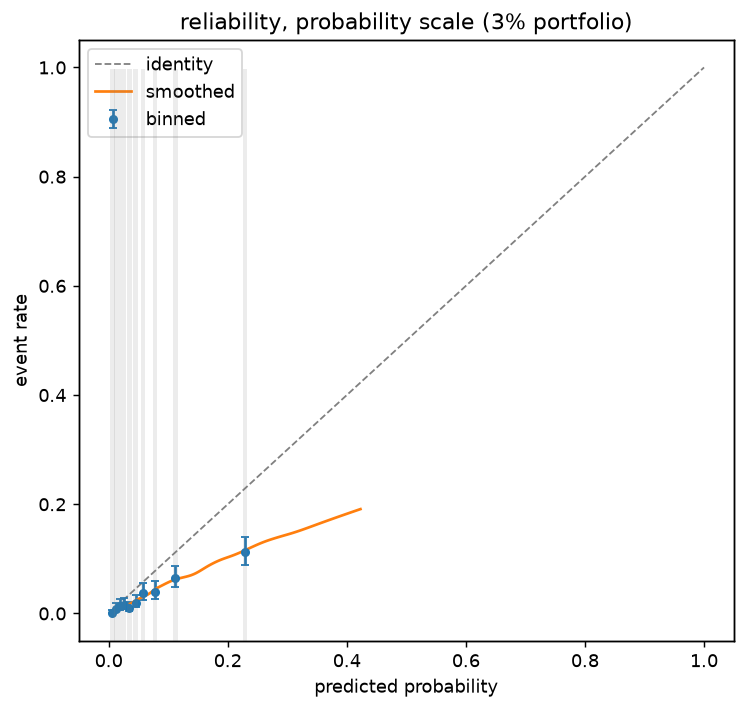
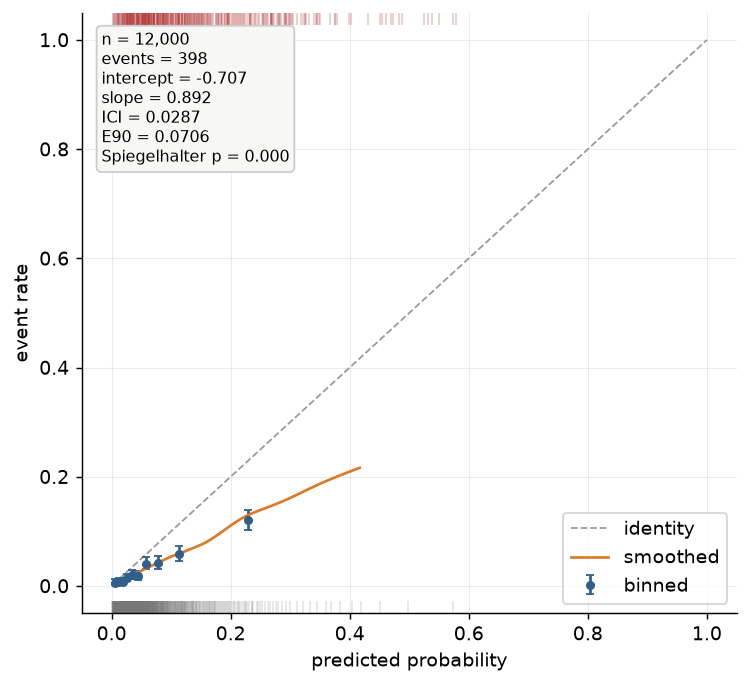
docs: figure-generation script, regenerated gallery under the house style, viz chapter sections (DECISIONS 55)

diff --git a/docs/scripts/generate_figures.py b/docs/scripts/generate_figures.py
@@ -1,0 +1,104 @@
+"""Regenerate every figure referenced by docs/concepts/visualization.md.
+
+Deterministic (seeded portfolio, no RNG in plotting) and idempotent:
+
+    uv run python docs/scripts/generate_figures.py
+
+Requires the [viz] extra. Output: docs/concepts/img/*.png at dpi 130.
+"""
+
+from pathlib import Path
+
+import matplotlib
+
+matplotlib.use("Agg")
+
+import matplotlib.pyplot as plt  # noqa: E402
+import numpy as np  # noqa: E402
+
+from probcal import (  # noqa: E402
+    BetaCalibrator,
+    CalibratorSelector,
+    LogitOffset,
+    calibration_belt,
+    make_pd_portfolio,
+    reliability_binned,
+    reliability_loess,
+)
+from probcal.curves import ecce_curve  # noqa: E402
+from probcal.metrics import jeffreys_grade_test  # noqa: E402
+from probcal.plots import (  # noqa: E402
+    plot_belt,
+    plot_comparison,
+    plot_ecce,
+    plot_grade_backtest,
+    plot_interval,
+    plot_offset_audit,
+    plot_reliability,
+    plot_selection,
+)
+from probcal.vennabers import VennAbersCalibrator  # noqa: E402
+
+OUT = Path(__file__).resolve().parents[1] / "concepts" / "img"
+SAVE = {"dpi": 130, "bbox_inches": "tight"}
+
+
+def save(artist, name: str) -> None:
+    fig = artist if hasattr(artist, "savefig") else artist.figure
+    fig.savefig(OUT / name, **SAVE)
+    plt.close(fig)
+    print(f"wrote {OUT / name}")
+
+
+def main() -> None:
+    OUT.mkdir(parents=True, exist_ok=True)
+    port = make_pd_portfolio(n=12000, random_state=42)
+    y, scores = port.y, port.scores
+    p_cal = BetaCalibrator().fit(scores, y).predict_proba(scores)
+
+    curve = reliability_binned(y, scores)
+    smooth = reliability_loess(y, scores)
+    save(plot_reliability(curve, smooth=smooth, y=y, p=scores), "reliability_probability.png")
+    save(
+        plot_reliability(curve, smooth=smooth, scale="logit", y=y, p=scores),
+        "reliability_logit.png",
+    )
+
+    save(plot_belt(calibration_belt(y, scores)), "belt.png")
+
+    save(
+        plot_comparison(
+            reliability_binned(y, scores),
+            reliability_binned(y, p_cal),
+            scale="logit",
+            labels=("raw scores", "beta-calibrated"),
+        ),
+        "comparison.png",
+    )
+
+    ivap = VennAbersCalibrator().fit(scores[:2000], y[:2000])
+    grid = np.linspace(0.005, 0.5, 120)
+    save(plot_interval(ivap.predict_interval(grid), grid), "interval.png")
+
+    sel = CalibratorSelector(cv=4, random_state=42).fit(scores[:3000], y[:3000])
+    save(plot_selection(sel.report_), "selection.png")
+
+    save(
+        plot_ecce(
+            [ecce_curve(y, scores), ecce_curve(y, p_cal)],
+            labels=["raw scores", "beta-calibrated"],
+        ),
+        "ecce.png",
+    )
+
+    grade_edges = [0.005, 0.01, 0.02, 0.05]
+    grade_names = np.array(["G1", "G2", "G3", "G4", "G5"])
+    grades = grade_names[np.searchsorted(grade_edges, p_cal)]
+    save(plot_grade_backtest(jeffreys_grade_test(y, p_cal, grades)), "grade_backtest.png")
+
+    offset = LogitOffset(target_mean=float(y.mean())).fit(scores)
+    save(plot_offset_audit(offset), "offset_audit.png")
+
+
+if __name__ == "__main__":
+    main()

diff --git a/docs/concepts/visualization.md b/docs/concepts/visualization.md
@@ -13,8 +13,9 @@ calibrated model traces the diagonal. probcal builds it three ways, because the
 construction *is* the estimator and inherits its trade-offs. `reliability_binned` groups
 predictions (equal-mass by default), plotting each bin's mean prediction against its event
 rate with a **Wilson confidence interval** — the binomial interval that behaves sensibly at
-the small counts and extreme rates a PD portfolio produces — and the bin counts as a
-histogram margin, so sparse regions announce themselves. `reliability_loess` and
+the small counts and extreme rates a PD portfolio produces. Data density is shown by the
+per-class rug along the axis edges (a count-bar margin remains available via
+`counts=True`), so sparse regions announce themselves. `reliability_loess` and
 `reliability_spline` draw the smooth versions in the tradition of Austin and Steyerberg
 (2014), trading the binning artifacts for a bandwidth choice; plotted together with the
 binned points they distinguish real curvature from bin noise. Every curve object carries
@@ -31,7 +32,9 @@ its left margin.
 
 The same data on the logit scale, where the miscalibration becomes readable:
 
-![Reliability diagram on the logit scale: binned points with Wilson intervals sit below the identity, and the tail distortion is visible](img/reliability_logit.png) Plotting on the logit scale stretches exactly where the decisions are —
+![Annotated reliability diagram on the logit scale: binned points with Wilson intervals sit below the identity, the stats box reports intercept, slope, ICI, E90 and the Spiegelhalter p-value, and the event/non-event rug shows where the data live](img/reliability_logit.png)
+
+Plotting on the logit scale stretches exactly where the decisions are —
 the difference between 0.5% and 1% PD is a factor of two in price and a full grade on a
 masterscale, and it is invisible on \( [0,1] \) but a fixed distance in log-odds.
 `plot_reliability(scale="logit")` is therefore the package's default recommendation for
@@ -40,6 +43,22 @@ keeps probability intuition while the geometry keeps resolution. Parametric cali
 straight lines on this scale (slope and intercept readable by eye), the
 [offset](offset.md) is a vertical translation, and tail miscalibration — the kind that
 costs money at the approval cutoff — stops hiding in the corner.
+
+## The annotated reliability diagram
+
+Passing the raw `y`/`p` to `plot_reliability` upgrades the diagram in the `rms::val.prob`
+tradition: the picture carries its own numbers. The stats box — computed by
+`probcal.metrics.reliability_summary`, never inside the plotting layer — reports the sample
+size and event count, the [calibration intercept and slope](metrics.md) (level and spread of
+the miscalibration in log-odds), ICI and E90 (typical and near-worst absolute distance to
+the smoothed curve, in probability units), and Spiegelhalter's p-value (the classical
+unbiasedness test). One glance answers the three questions a validator asks of a
+reliability diagram: how much data, how wrong, and is it statistically distinguishable from
+calibrated. The rug along the axis edges marks events (top) and non-events (bottom),
+deterministically thinned to at most 1000 marks per class — sorted, evenly strided, no RNG
+anywhere in plotting — so two renders of the same data are always identical. All probcal
+plots style themselves through a per-call `rc_context`; your global matplotlib
+configuration is never touched.
 
 ## The calibration belt
 
@@ -57,9 +76,53 @@ version) is reimplemented in probcal from the papers, on the numpy-only χ² mac
 
 ![Calibration belt on the miscalibrated portfolio: the 80% and 95% bands exclude the diagonal, rejecting calibration across the whole range](img/belt.png)
 
+## The ECCE drift walk
+
+The [ECCE](metrics.md) sorts observations by prediction and accumulates the residuals; the
+resulting walk hovers near zero under calibration and drifts under systematic error, and
+*where* it drifts localizes the miscalibration along the score range without any binning or
+bandwidth choice. `ecce_curve` computes the walk (its `stat_max` agrees exactly with
+`metrics.ecce`) and `plot_ecce` renders one or several — raw versus calibrated is the
+natural pair. Each curve's maximum drift is quoted in the legend and marked by a dotted
+tick at the position where it occurs. The grey envelope is ±2 *pointwise* standard
+deviations of the walk under calibration: an honest reading aid, not a simultaneous
+confidence band — a walk can exit a pointwise envelope somewhere by chance more often than
+the nominal level suggests, and the formal max-statistic test of Arrieta-Ibarra et al.
+(2022) is not implemented in this release.
+
+![ECCE drift walks for raw and beta-calibrated scores: the raw walk drifts far outside the pointwise envelope while the calibrated walk hovers near zero](img/ecce.png)
+
+## The per-grade backtest chart
+
+`plot_grade_backtest` turns a [per-grade backtest result](metrics.md) into the chart a
+validation committee reads: observed default rates as circles colored by the grade's
+traffic light, the assigned PDs as wide dashes underneath, and grey whiskers spanning each
+grade's 90% display interval — the central Jeffreys posterior interval or the
+Clopper–Pearson interval, matching the test that produced the result. The intervals are
+display companions, not the test: the verdict is carried by the lights from the unchanged
+one-sided tests, which is why no p-values appear on the canvas. Per-grade `n` and `k`
+annotations keep the sample sizes honest, and the log-scale y-axis (the default) keeps a
+masterscale spanning two orders of magnitude readable.
+
+![Per-grade Jeffreys backtest: observed default rates with 90% display intervals against assigned PDs, one traffic-light-colored point per grade](img/grade_backtest.png)
+
+## The offset audit chart
+
+`plot_offset_audit` draws a fitted [LogitOffset](offset.md) as what it is: a vertical
+translation on the logit scale. The blue offset map runs parallel to the grey identity at
+distance \( \delta \); the red and green markers place the pre- and post-adjustment
+central tendencies, joined by the annotated shift arrow, with the target mean as a thin
+reference line when the offset was fitted in target-mean mode. The stats box reads
+everything from the fitted attributes — \( \delta \) in log-odds, the odds factor
+\( e^{\delta} \), both means, and the fit timestamp — so the chart audits the *stage*
+itself; for the before/after guardrail comparison on outcomes, `audit_report()` remains
+the tool.
+
+![Logit offset audit chart: the offset map parallel to the identity, pre- and post-adjustment means joined by the shift arrow, and the audit numbers in the stats box](img/offset_audit.png)
+
 ## The remaining plots
 
-Three purpose-built views complete `probcal.plots`. `plot_comparison(before, after)` puts
+Three further views complete `probcal.plots`. `plot_comparison(before, after)` puts
 pre- and post-calibration (or pre- and post-offset) reliability on one axis pair — the
 picture a validation report leads with. `plot_interval` draws
 [Venn–Abers interval widths](methods-distribution-free.md) against score, localizing where
@@ -79,20 +142,30 @@ guard raises with the install instruction rather than a bare `ImportError`.
 
 ```python
 from probcal import calibration_belt, reliability_binned, reliability_loess
-from probcal.plots import plot_belt, plot_comparison, plot_reliability  # [viz] extra
+from probcal.curves import ecce_curve
+from probcal.metrics import jeffreys_grade_test, reliability_summary
+from probcal.plots import (  # [viz] extra
+    plot_belt, plot_comparison, plot_ecce, plot_grade_backtest,
+    plot_offset_audit, plot_reliability,
+)
 
 curve = reliability_binned(y, p, n_bins=10)        # Wilson CIs, both scales
 smooth = reliability_loess(y, p)
 belt = calibration_belt(y, p)
 print(belt.degree, belt.p_value)
+print(reliability_summary(y, p))                   # the stats-box numbers, standalone
 
-ax = plot_reliability(curve, smooth=smooth, scale="logit")   # the flagship view
+ax = plot_reliability(curve, smooth=smooth, scale="logit", y=y, p=p)   # the flagship view
 ax = plot_belt(belt)
 fig = plot_comparison(reliability_binned(y, s_raw), reliability_binned(y, p))
+ax = plot_ecce([ecce_curve(y, s_raw), ecce_curve(y, p)], labels=["raw", "calibrated"])
+ax = plot_grade_backtest(jeffreys_grade_test(y, p, grades))
+ax = plot_offset_audit(fitted_offset)              # a fitted LogitOffset stage
 ```
 
 ## References
 
+- Arrieta-Ibarra, I., Gujral, P., Tannen, J., Tygert, M., Xu, C. (2022). "Metrics of Calibration for Probabilistic Predictions." *Journal of Machine Learning Research* 23(351), 1–54.
 - Austin, P. C., Steyerberg, E. W. (2014). "Graphical assessment of internal and external calibration of logistic regression models by using loess smoothers." *Statistics in Medicine* 33(3), 517–535.
 - Nattino, G., Finazzi, S., Bertolini, G. (2014). "A new calibration test and a reappraisal of the calibration belt for the assessment of prediction models based on dichotomous outcomes." *Statistics in Medicine* 33(14), 2390–2407.
 - Nattino, G., Lemeshow, S., Phillips, G., Finazzi, S., Bertolini, G. (2017). "Assessing the Calibration of Dichotomous Outcome Models with the Calibration Belt." *Stata Journal* 17(4), 1003–1014.

diff --git a/docs/DECISIONS.md b/docs/DECISIONS.md
@@ -379,3 +379,28 @@ Dated log of ambiguities resolved and design choices made during implementation.
     matrix job, which is the guard against 3.12-only *runtime* constructs. The residual
     risk — 3.12-only *typing* constructs passing mypy — is accepted and stated.
     *(2026-08-08)*
+
+55. **Visualization overhaul decisions (0.1.1 part 2).** Six choices:
+    (a) *rc-context styling* — the house style (`_STYLE`, muted six-color palette) is
+    applied via `matplotlib.pyplot.rc_context` inside each plot function and never by
+    mutating global `rcParams`; a user's own matplotlib configuration survives calling
+    probcal, verified by a test comparing `rcParams` before and after.
+    (b) *Rug replaces count bars by default* — `plot_reliability` gains a per-class
+    event/non-event rug and the twin-axis count margin flips to opt-in `counts=False`.
+    The rug shows the same density information at the data's own coordinates without a
+    second y-scale, and the margin remains one keyword away.
+    (c) *Pointwise-band honesty* — `plot_ecce`'s grey envelope is ±2 pointwise SDs of
+    the walk under calibration and is labeled "(pointwise)" on the canvas itself; a
+    simultaneous band (the formal max-statistic test of Arrieta-Ibarra et al.) is out
+    of scope for this release and the docstring and docs say so.
+    (d) *Display intervals on grade results* — `ci_low`/`ci_high` are the central 90%
+    Jeffreys posterior interval and the 90% Clopper–Pearson interval respectively,
+    display-only companions for `plot_grade_backtest`; the traffic lights keep coming
+    from the unchanged one-sided tests, and no p-values are printed on the canvas.
+    (e) *`beta_ppf` by bisection* — the Beta quantile reuses the existing `bisect` on
+    `betainc` (the `chi2_ppf` pattern), preserving the numpy-only runtime; verified
+    against hand anchors and `scipy.stats.beta.ppf`.
+    (f) *Deterministic reduction everywhere* — anywhere plotting thins data (the rug's
+    ≤1000 marks per class) the subsample is sort-then-stride with no RNG, so identical
+    inputs always render identical figures; `docs/scripts/generate_figures.py` extends
+    the same principle to the committed documentation images. *(2026-08-08)*

diff --git a/docs/concepts/metrics.md b/docs/concepts/metrics.md
@@ -120,7 +120,8 @@ and Xu, 2022), sorts observations by \( p \) and tracks the cumulative deviation
 hovering near zero; systematic over- or under-prediction makes it drift. The Kolmogorov-style
 maximum \( \max_k |C_k|/n \) and the mean absolute deviation summarize the drift, and the plot
 of \( C_k \) against sorted \( p \) localizes *where* the miscalibration lives without any
-smoothing parameter at all.
+smoothing parameter at all — rendered by `ecce_curve` and `plot_ecce`
+([Visualization](visualization.md)).
 
 **ICI and its quantiles** (Austin and Steyerberg, 2019). Fit a LOESS smoother
 \( \hat{c}(p) \) of outcome on prediction (Austin and Steyerberg, 2014, established the
@@ -237,7 +238,9 @@ prior is \( \mathrm{Beta}(k + \tfrac12,\; n - k + \tfrac12) \), and the reported
 the posterior probability that the true rate lies at or below the assigned PD. The reading is
 one-sided and conservative by design — a small value flags a grade whose PD is likely
 understated — and the documentation says so explicitly, because two-sided misreadings of the
-Jeffreys test are a recurring validation error.
+Jeffreys test are a recurring validation error. Both results carry 90% display intervals
+(`ci_low`/`ci_high`) for `plot_grade_backtest` ([Visualization](visualization.md)); the
+intervals are for reading, the traffic lights carry the verdict.
 
 ## Uncertainty: the bootstrap protocol
 

diff --git a/docs/concepts/offset.md b/docs/concepts/offset.md
@@ -132,7 +132,9 @@ timestamp. `audit_report()` re-runs the [guardrails](metrics.md) before and afte
 so the reviewing validator sees in one table what moved, by how much, and what it did to
 slope, intercept, and the Spiegelhalter statistic. `interpret()` renders \( \delta \) in all
 three vocabularies: log-odds shift, multiplicative odds factor \( e^{\delta} \), and the
-central-tendency re-anchoring statement with both means.
+central-tendency re-anchoring statement with both means. `plot_offset_audit` draws the
+fitted stage — the shifted map against the identity, both means, and the audit numbers —
+directly from those recorded attributes ([Visualization](visualization.md)).
 
 Composition is deliberately explicit. `CalibratedModel.offset_to(target_mean=...)` appends a
 `LogitOffset` stage to the pipeline — calibrator first, offset second — and both stages

diff --git a/README.md b/README.md
@@ -111,7 +111,8 @@ deliberately out of scope unless benchmarks on production-sized portfolios say o
 
 Built with mkdocs-material; run locally with `uv run mkdocs serve`. Start with
 *Getting started*, then the *Concepts* chapters — the package's theoretical foundation —
-and the executed *PD calibration walkthrough* notebook.
+and the executed *PD calibration walkthrough* notebook. The *Visualization* chapter is a
+gallery of every plot, regenerated deterministically by `docs/scripts/generate_figures.py`.
 
 ## License
 
